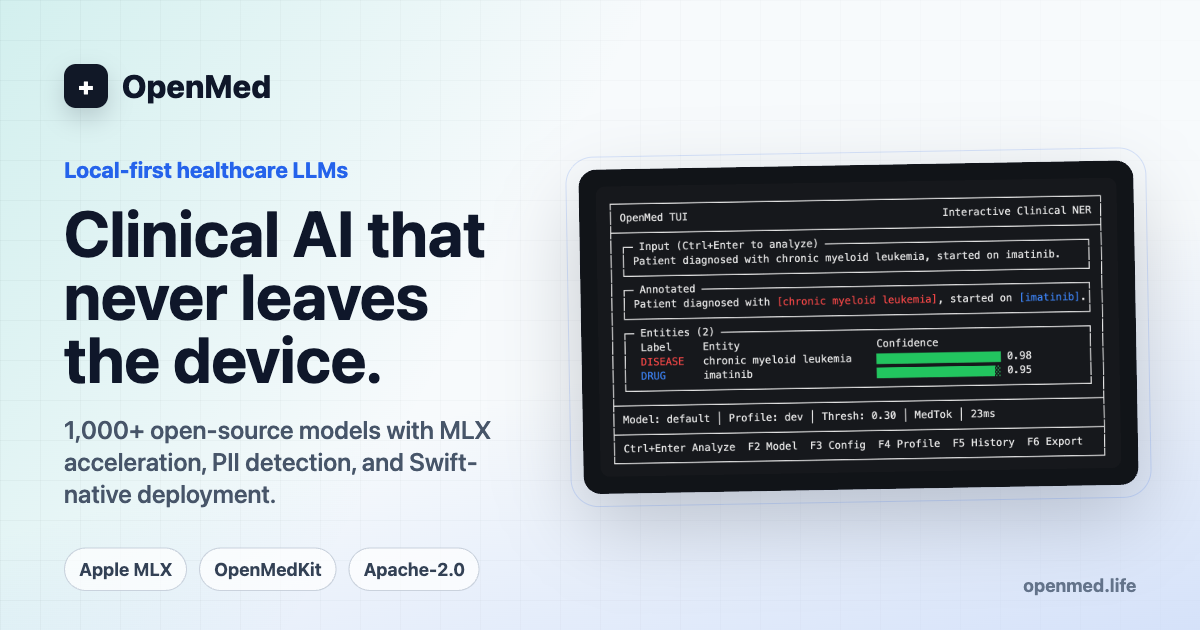
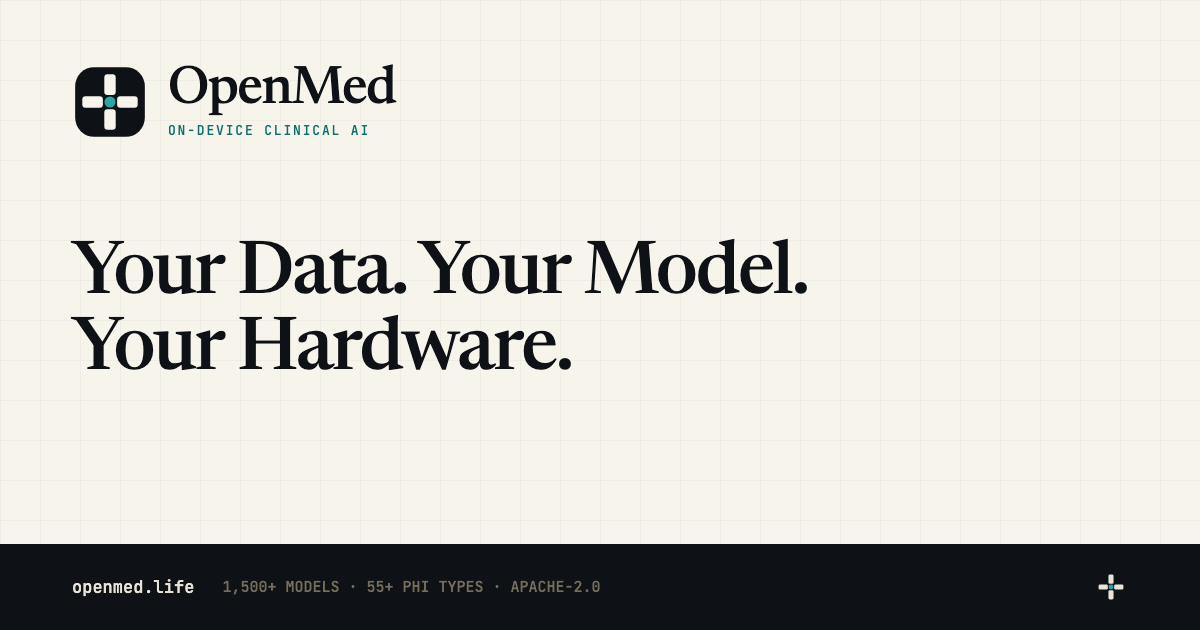
feat(website): rebrand marketing site to on-device clinical AI

diff --git a/docs/website/index.html b/docs/website/index.html
@@ -4,9 +4,9 @@
 <head>
     <meta charset="UTF-8">
     <meta name="viewport" content="width=device-width, initial-scale=1.0">
-    <title>OpenMed — Clinical AI that never leaves the device</title>
+    <title>OpenMed — On-Device Clinical AI for NER and PHI De-Identification</title>
     <meta name="description"
-        content="OpenMed 1.7.0 brings multimodal de-identification, OCR, FHIR and HL7 helpers, signed audit evidence, Transformers.js browser export, 1,000+ open-source healthcare LLM models, and Swift-native OpenMedKit." />
+        content="Open-source clinical AI that runs 100% on-device. Extract biomedical entities and de-identify 55+ PHI types across 15 PII languages — offline, from a phone to a GPU server. 1,500+ models, Apache-2.0." />
     <meta name="keywords"
         content="OpenMed, state-of-the-art LLMs for healthcare, healthcare AI, clinical AI models, biomedical NER, zero-shot medical AI, clinical LLMs, medical language models, healthcare machine learning, clinical LLM workflows, medical AI, biomedical AI, SOTA healthcare models, Maziyar Panahi, Hugging Face, Apache-2.0, SageMaker, clinical decision support, medical text analysis" />
     <meta name="author" content="Maziyar Panahi" />
@@ -18,25 +18,25 @@
     <link rel="apple-touch-icon" href="apple-touch-icon.png" />
 
     <meta property="og:type" content="website" />
-    <meta property="og:title" content="OpenMed — Clinical AI that never leaves the device" />
+    <meta property="og:title" content="OpenMed — On-Device Clinical AI" />
     <meta property="og:description"
-        content="OpenMed 1.7.0 — multimodal de-identification, OCR, FHIR/HL7, release evidence, Transformers.js browser export, 1,000+ healthcare LLM models, and local-first runtimes across Python, Swift, REST, and WebGPU." />
+        content="Open-source clinical AI that runs 100% on-device — extract entities and de-identify 55+ PHI types offline, from a phone to a GPU server. 1,500+ models, 15 PII languages, Apache-2.0." />
     <meta property="og:url" content="https://openmed.life/" />
     <meta property="og:site_name" content="OpenMed" />
-    <meta property="og:image" content="https://openmed.life/og.png?v=20260425" />
-    <meta property="og:image:secure_url" content="https://openmed.life/og.png?v=20260425" />
+    <meta property="og:image" content="https://openmed.life/og.png?v=20260705" />
+    <meta property="og:image:secure_url" content="https://openmed.life/og.png?v=20260705" />
     <meta property="og:image:type" content="image/png" />
     <meta property="og:image:width" content="1200" />
     <meta property="og:image:height" content="630" />
-    <meta property="og:image:alt" content="OpenMed social preview showing local-first healthcare LLMs and an interactive clinical NER terminal." />
+    <meta property="og:image:alt" content="OpenMed — on-device clinical AI. Your data, your model, your hardware." />
     <meta name="twitter:card" content="summary_large_image" />
     <meta name="twitter:site" content="@OpenMed_AI" />
     <meta name="twitter:creator" content="@MaziyarPanahi" />
-    <meta name="twitter:title" content="OpenMed — Clinical AI that never leaves the device" />
+    <meta name="twitter:title" content="OpenMed — On-Device Clinical AI" />
     <meta name="twitter:description"
-        content="OpenMed 1.7.0 · multimodal de-identification · OCR · FHIR/HL7 · signed audit evidence · Transformers.js browser export · Swift-native OpenMedKit." />
-    <meta name="twitter:image" content="https://openmed.life/og.png?v=20260425" />
-    <meta name="twitter:image:alt" content="OpenMed social preview showing local-first healthcare LLMs and an interactive clinical NER terminal." />
+        content="On-device clinical AI · biomedical NER · de-identify 55+ PHI types offline · 15 PII languages · runs from a phone to a GPU server · Apache-2.0." />
+    <meta name="twitter:image" content="https://openmed.life/og.png?v=20260705" />
+    <meta name="twitter:image:alt" content="OpenMed — on-device clinical AI. Your data, your model, your hardware." />
 
     <script type="application/ld+json">
     {
@@ -60,7 +60,7 @@
         "name": "OpenMed Clinical LLM Suite",
         "operatingSystem": "macOS, iOS, iPadOS, Cloud, On-Premises",
         "applicationCategory": "AIApplication",
-        "description": "OpenMed Clinical LLM Suite provides open-source healthcare language models, biomedical named-entity recognition, multimodal de-identification, Python MLX acceleration, browser Transformers.js export, and Swift-native deployment toolkits for compliant medical workflows.",
+        "description": "OpenMed provides open-source healthcare language models for biomedical named-entity recognition and PHI de-identification that run entirely on-device — on phones, CPUs, Apple Silicon, NVIDIA GPUs, in the browser, and on-premises — so clinical data never leaves your control.",
         "softwareVersion": "1.7.0",
         "url": "https://openmed.life/",
         "provider": { "@type": "Organization", "name": "OpenMed", "url": "https://openmed.life/" },
@@ -101,13 +101,9 @@
     <header class="nav">
         <div class="container nav-inner">
             <a href="#" class="logo" aria-label="OpenMed home">
-                <svg class="logo-mark" width="28" height="28" viewBox="0 0 40 40" aria-hidden="true">
-                    <rect x="2" y="2" width="36" height="36" rx="8" fill="var(--ink)" />
-                    <rect x="11" y="17.5" width="18" height="5" rx="1" fill="var(--paper)" />
-                    <rect x="17.5" y="11" width="5" height="18" rx="1" fill="var(--paper)" />
-                    <circle cx="20" cy="20" r="2" fill="var(--accent)" />
-                </svg>
-                <span class="wordmark">open<span class="med">med</span></span>
+                <img class="logo-mark logo-mark--onlight" src="brand/openmed-mark.svg" width="32" height="32" alt="" aria-hidden="true">
+                <img class="logo-mark logo-mark--ondark" src="brand/openmed-mark-light.svg" width="32" height="32" alt="" aria-hidden="true">
+                <span class="wordmark">OpenMed</span>
                 <span class="version-tag">v1.7.0</span>
             </a>
 
@@ -157,12 +153,12 @@
     <section id="home" class="hero bg-grid" data-screen>
         <div class="container hero-grid">
             <div>
-                <div class="eyebrow">OpenMed 1.7.0 · multimodal de-identification · browser export</div>
+                <div class="eyebrow">On-Device Clinical AI · Apache-2.0</div>
                 <h1 class="display-xl hero-title">
-                    Clinical AI that never leaves the <span class="serif-italic">device</span>.
+                    Your Data. Your Model. Your <span class="serif-italic">Hardware</span>.
                 </h1>
                 <p class="body-lg hero-desc">
-                    1,000+ state-of-the-art healthcare LLM models, Nemotron Privacy Filter MLX, OCR and multimodal redaction, FHIR/HL7 helpers, PII across 15 supported PII language codes: ar, de, en, es, fr, he, hi, id, it, ja, nl, pt, te, th, and tr, plus browser token classification through Transformers.js/WebGPU.
+                    OpenMed reads clinical text and removes 55+ PHI types on the hardware you control — so <span style="background:var(--highlight);color:#0E1116;padding:0 .2em;border-radius:3px">patient data never leaves the device</span>. The same open models run from a phone to a GPU server, fully offline. 1,500+ models, 15 PII languages, and state of the art on 10 of 12 biomedical NER benchmarks.
                 </p>
 
                 <div class="hero-ctas">
@@ -262,7 +258,7 @@
                     <div class="statband-label">PyPI Downloads</div>
                 </div>
                 <div class="statband-cell">
-                    <div class="statband-num">1,000<span class="suf">+</span></div>
+                    <div class="statband-num">1,500<span class="suf">+</span></div>
                     <div class="statband-label">HF Models</div>
                 </div>
                 <div class="statband-cell">
@@ -370,12 +366,12 @@
     <section id="apple-runtime" data-screen>
         <div class="container">
             <div class="section-head">
-                <div class="eyebrow">The runtime story</div>
-                <h2 class="display-lg" style="max-width:20ch">
-                    One local-first story across Python, Swift, REST, and browser.
+                <div class="eyebrow">Runs everywhere</div>
+                <h2 class="display-lg" style="max-width:22ch">
+                    The same models, from a phone to a GPU server.
                 </h2>
                 <p class="body-lg" style="max-width:62ch;margin-top:16px">
-                    Prototype with Python MLX on Apple Silicon, ship native Swift apps with OpenMedKit, expose typed REST clients, or package ONNX/WebGPU artifacts for in-browser token classification through Transformers.js.
+                    The same open models run on iPhone and iPad via OpenMedKit, on Android via ONNX export, on plain laptop CPUs, Apple Silicon, and NVIDIA GPUs, in the browser through WebGPU, and as a Docker service — no cloud, no telemetry, nothing leaving the device.
                 </p>
             </div>
 
@@ -556,7 +552,7 @@
                         </p>
                     </div>
                     <a class="btn btn-outline" href="https://huggingface.co/OpenMed" target="_blank" rel="noopener">
-                        Browse 1,000+ on HF
+                        Browse 1,500+ on HF
                         <svg class="icon" width="16" height="16" viewBox="0 0 24 24" fill="none" stroke="currentColor" stroke-width="1.6" stroke-linecap="round" stroke-linejoin="round" aria-hidden="true">
                             <line x1="7" y1="17" x2="17" y2="7" />
                             <polyline points="7 7 17 7 17 17" />
@@ -947,13 +943,9 @@
             <div class="footer-grid">
                 <div class="footer-col">
                     <div class="footer-brand">
-                        <svg width="28" height="28" viewBox="0 0 40 40" aria-hidden="true">
-                            <rect x="2" y="2" width="36" height="36" rx="8" fill="var(--ink)" />
-                            <rect x="11" y="17.5" width="18" height="5" rx="1" fill="var(--paper)" />
-                            <rect x="17.5" y="11" width="5" height="18" rx="1" fill="var(--paper)" />
-                            <circle cx="20" cy="20" r="2" fill="var(--accent)" />
-                        </svg>
-                        <span class="wordmark">open<span class="med">med</span></span>
+                        <img class="logo-mark logo-mark--onlight" src="brand/openmed-mark.svg" width="28" height="28" alt="" aria-hidden="true">
+                        <img class="logo-mark logo-mark--ondark" src="brand/openmed-mark-light.svg" width="28" height="28" alt="" aria-hidden="true">
+                        <span class="wordmark">OpenMed</span>
                     </div>
                     <p class="body-sm" style="max-width:38ch">
                         Community-driven, non-profit effort to democratize state-of-the-art LLMs for healthcare. Founded by <a href="https://x.com/MaziyarPanahi" target="_blank" rel="noopener" style="color:var(--accent);text-decoration:none">Maziyar Panahi</a>.

diff --git a/docs/website/assets/style.css b/docs/website/assets/style.css
@@ -273,16 +273,18 @@ section[data-screen] { padding: 96px 0; }
     text-decoration: none;
 }
 .logo-mark { display: block; }
+/* Open Cross mark: ink tile on light substrates, paper tile on dark. */
+.logo-mark--ondark { display: none; }
+[data-theme="dark"] .logo-mark--onlight { display: none; }
+[data-theme="dark"] .logo-mark--ondark { display: block; }
 .wordmark {
     font-family: var(--font-display);
-    font-style: italic;
     font-weight: 500;
     font-size: 22px;
     color: var(--fg);
-    letter-spacing: -0.01em;
+    letter-spacing: -0.02em;
     line-height: 1;
 }
-.wordmark .med { color: var(--accent); }
 .version-tag {
     font-family: var(--font-mono);
     font-size: 10px;
@@ -1483,7 +1485,7 @@ section[data-screen] { padding: 96px 0; }
 .agent-shot-bar { display: flex; justify-content: space-between; align-items: center; padding: 11px 16px; border-bottom: 1px solid var(--border-on-inverse); font-size: 11px; color: var(--fg-on-inverse-muted); }
 .agent-shot-body { padding: 16px; font-size: 12.5px; line-height: 1.95; color: #E9E4D7; }
 .agent-line { display: flex; align-items: center; gap: 9px; }
-.agent-line .dn { color: #4EC38A; }
+.agent-line .dn { color: var(--accent-on-inverse); }
 .agent-line .pend { color: var(--fg-on-inverse-muted); }
 .agent-line .svc { color: #6FB5B5; font-size: 10.5px; }
 .agent-line .pr { color: var(--highlight); }